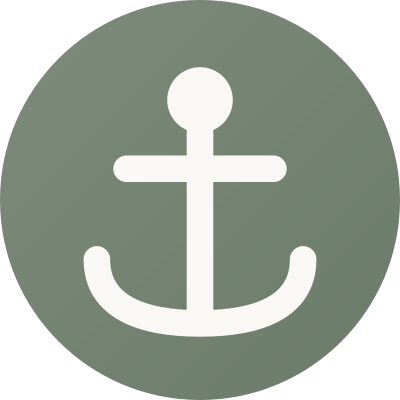
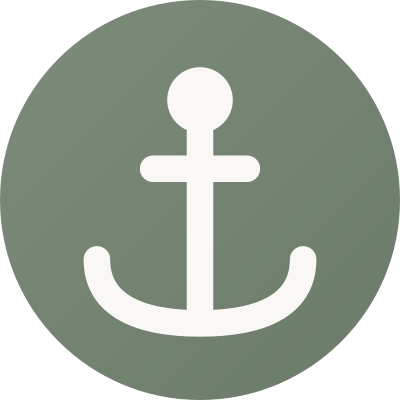
lock the anchor mark after testing the alternatives

Changed region(s): [[0.63, 0.39, 0.72, 0.48], [0.27, 0.39, 0.36, 0.48]]

diff --git a/brand/finalize.js b/brand/finalize.js
@@ -1,46 +1,38 @@
-const sharp = require('../node_modules/sharp'); const fs = require('fs');
-const CREAM='#FAF8F5', SAGE='#7D8B7A', MOSS='#6B7B6A';
-const P = '../public/';
+const sharp=require('../node_modules/sharp');const fs=require('fs');
+const CREAM='#FAF8F5',SAGE='#7D8B7A',MOSS='#6B7B6A',P='../public/';
 
-// the locked mark. solid head, wide crossbar, shallow cradle, no barbs.
-const mark = (sw=34) => `<g fill="none" stroke="${CREAM}" stroke-width="${sw}"
-    stroke-linecap="round" stroke-linejoin="round">
-    <path d="M256 168 L256 412"/><path d="M162 216 L350 216"/>
+// LOCKED MARK (round 5, x3): barbless anchor, solid head, SHORT crossbar, wide open cradle.
+const mark=(sw)=>`<g fill="none" stroke="${CREAM}" stroke-width="${sw}" stroke-linecap="round" stroke-linejoin="round">
+    <path d="M256 168 L256 412"/><path d="M196 216 L316 216"/>
     <path d="M124 332 C124 392 180 414 256 414 C332 414 388 392 388 332"/>
   </g><circle cx="256" cy="128" r="42" fill="${CREAM}"/>`;
-
-const tile = ({rx=0, sw=34}={}) => `<svg xmlns="http://www.w3.org/2000/svg" viewBox="0 0 512 512" width="512" height="512">
+const tile=({rx=0,sw=34}={})=>`<svg xmlns="http://www.w3.org/2000/svg" viewBox="0 0 512 512" width="512" height="512">
   <defs><linearGradient id="g" x1="0%" y1="0%" x2="100%" y2="100%">
-    <stop offset="0%" stop-color="${SAGE}"/><stop offset="100%" stop-color="${MOSS}"/></linearGradient></defs>
+   <stop offset="0%" stop-color="${SAGE}"/><stop offset="100%" stop-color="${MOSS}"/></linearGradient></defs>
   <rect width="512" height="512" rx="${rx}" fill="url(#g)"/>${mark(sw)}</svg>`;
 
-const square = tile(), rounded = tile({rx:96}), chunky = tile({rx:96, sw:44});
-
-(async () => {
-  // --- X profile picture, full bleed, X applies the circular crop itself
-  fs.writeFileSync('anchor-avatar.svg', square);
+const square=tile(), rounded=tile({rx:96}), chunky=tile({rx:96,sw:40});
+(async()=>{
+  fs.writeFileSync('anchor-avatar.svg',square);
   await sharp(Buffer.from(square)).resize(800,800).png().toFile('anchor-avatar-800.png');
   await sharp(Buffer.from(square)).resize(400,400).png().toFile('anchor-avatar-400.png');
-
-  // --- app icon set, replacing the ones that said SC
-  fs.writeFileSync(P+'icon.svg', rounded);
-  fs.writeFileSync(P+'apple-touch-icon.svg', rounded);
-  fs.writeFileSync(P+'favicon-32x32.svg', chunky);
-  fs.writeFileSync(P+'favicon-16x16.svg', chunky);
+  fs.writeFileSync(P+'icon.svg',rounded); fs.writeFileSync(P+'apple-touch-icon.svg',rounded);
+  fs.writeFileSync(P+'favicon-32x32.svg',chunky); fs.writeFileSync(P+'favicon-16x16.svg',chunky);
   await sharp(Buffer.from(rounded)).resize(192,192).png().toFile(P+'icon-192.png');
   await sharp(Buffer.from(rounded)).resize(512,512).png().toFile(P+'icon-512.png');
   await sharp(Buffer.from(rounded)).resize(180,180).png().toFile(P+'apple-touch-icon.png');
+  // 1024 native for any store use
+  await sharp(Buffer.from(rounded)).resize(1024,1024).png().toFile('anchor-icon-1024.png');
 
-  // --- proof: every target size, actual pixels, circular where X crops
-  const circ = s => Buffer.from(`<svg width="${s}" height="${s}"><circle cx="${s/2}" cy="${s/2}" r="${s/2}" fill="#fff"/></svg>`);
-  const shots = [];
-  for (const s of [400,128,48,32,16]) {
+  const circ=s=>Buffer.from(`<svg width="${s}" height="${s}"><circle cx="${s/2}" cy="${s/2}" r="${s/2}" fill="#fff"/></svg>`);
+  const comp=[];
+  for(const s of [400,128,48,32,16]){
     await sharp(Buffer.from(square)).resize(s,s).composite([{input:circ(s),blend:'dest-in'}]).png().toFile(`proof-${s}.png`);
-    if (s <= 48) await sharp(`proof-${s}.png`).resize(160,160,{kernel:'nearest'}).png().toFile(`proof-${s}-big.png`);
+    if(s<=48) await sharp(`proof-${s}.png`).resize(160,160,{kernel:'nearest'}).png().toFile(`proof-${s}-big.png`);
   }
-  const comp = [{input:'proof-400.png',left:20,top:20},{input:'proof-128.png',left:450,top:20}];
-  let x = 620; for (const s of [48,32,16]) { comp.push({input:`proof-${s}-big.png`,left:x,top:20}); x += 180; }
-  let x2 = 450; for (const s of [128,48,32,16]) { comp.push({input:`proof-${s}.png`,left:x2,top:250}); x2 += 90; }
+  comp.push({input:'proof-400.png',left:20,top:20},{input:'proof-128.png',left:450,top:20});
+  let x=620; for(const s of [48,32,16]){comp.push({input:`proof-${s}-big.png`,left:x,top:20});x+=180;}
+  let x2=450; for(const s of [128,48,32,16]){comp.push({input:`proof-${s}.png`,left:x2,top:250});x2+=90;}
   await sharp({create:{width:1160,height:440,channels:4,background:'#FAF8F5'}}).composite(comp).png().toFile('proof-sizes.png');
-  console.log('exported');
+  console.log('locked mark exported');
 })();

diff --git a/brand/forge4.js b/brand/forge4.js
@@ -1,0 +1,44 @@
+const sharp=require('../node_modules/sharp');const fs=require('fs');
+const CREAM='#FAF8F5';
+const field=`<defs><linearGradient id="g" x1="0%" y1="0%" x2="100%" y2="100%">
+ <stop offset="0%" stop-color="#7D8B7A"/><stop offset="100%" stop-color="#6B7B6A"/></linearGradient></defs>
+ <rect width="512" height="512" fill="url(#g)"/>`;
+
+// the anchor, as a knockout: drawn in black inside a mask so it cuts through the stone
+const cut = (sc, cy, sw) => `<g transform="translate(256,${cy}) scale(${sc}) translate(-256,-262)">
+   <g fill="none" stroke="#000" stroke-width="${sw}" stroke-linecap="round" stroke-linejoin="round">
+     <path d="M256 168 L256 412"/><path d="M162 216 L350 216"/>
+     <path d="M124 332 C124 392 180 414 256 414 C332 414 388 392 388 332"/>
+   </g><circle cx="256" cy="128" r="42" fill="#000"/></g>`;
+
+const PEBBLE = "M262 92 C352 88 424 150 420 244 C416 336 348 420 250 418 C158 416 92 344 94 246 C96 152 176 96 262 92 Z";
+
+const build = (shape, sc, cy, sw) => `<svg xmlns="http://www.w3.org/2000/svg" viewBox="0 0 512 512" width="512" height="512">
+ ${field}
+ <mask id="m"><rect width="512" height="512" fill="#000"/>
+   <path d="${shape}" fill="#fff"/>${cut(sc,cy,sw)}</mask>
+ <path d="${shape}" fill="${CREAM}" mask="url(#m)"/></svg>`;
+
+const V={};
+V.w1 = build("M256 76 A180 180 0 1 1 255.9 76 Z", 0.62, 262, 44);          // perfect circle
+V.w2 = build(PEBBLE, 0.62, 258, 44);                                        // irregular pebble
+V.w3 = build(PEBBLE, 0.72, 258, 52);                                        // bigger, heavier cut
+// control: the stroke anchor from round 3
+V.w4 = `<svg xmlns="http://www.w3.org/2000/svg" viewBox="0 0 512 512" width="512" height="512">${field}
+ <g fill="none" stroke="${CREAM}" stroke-width="34" stroke-linecap="round" stroke-linejoin="round">
+  <path d="M256 168 L256 412"/><path d="M162 216 L350 216"/>
+  <path d="M124 332 C124 392 180 414 256 414 C332 414 388 392 388 332"/></g>
+ <circle cx="256" cy="128" r="42" fill="${CREAM}"/></svg>`;
+
+const circ=s=>Buffer.from(`<svg width="${s}" height="${s}"><circle cx="${s/2}" cy="${s/2}" r="${s/2}" fill="#fff"/></svg>`);
+(async()=>{const ids=Object.keys(V);
+for(const id of ids){fs.writeFileSync(`round4/${id}.svg`,V[id]);
+ for(const s of [512,48,16]) await sharp(Buffer.from(V[id])).resize(s,s).composite([{input:circ(s),blend:'dest-in'}]).png().toFile(`round4/${id}-${s}.png`);
+ await sharp(`round4/${id}-16.png`).resize(128,128,{kernel:'nearest'}).png().toFile(`round4/${id}-16x.png`);
+ await sharp(`round4/${id}-512.png`).resize(250,250).png().toFile(`round4/${id}-250.png`);}
+const W=300,comp=[];
+ids.forEach((id,i)=>{comp.push({input:`round4/${id}-250.png`,left:i*W+25,top:14});
+ comp.push({input:`round4/${id}-48.png`,left:i*W+45,top:290});
+ comp.push({input:`round4/${id}-16x.png`,left:i*W+120,top:275});});
+await sharp({create:{width:W*ids.length,height:420,channels:4,background:'#FAF8F5'}}).composite(comp).png().toFile('round4/sheet.png');
+console.log('round 4:',ids.join(' '));})();

diff --git a/brand/forge5.js b/brand/forge5.js
@@ -1,0 +1,26 @@
+const sharp=require('../node_modules/sharp');const fs=require('fs');
+const CREAM='#FAF8F5';
+const f=`<defs><linearGradient id="g" x1="0%" y1="0%" x2="100%" y2="100%">
+ <stop offset="0%" stop-color="#7D8B7A"/><stop offset="100%" stop-color="#6B7B6A"/></linearGradient></defs>
+ <rect width="512" height="512" fill="url(#g)"/>`;
+const w=(inner,head=true,cy=128,r=42)=>`<svg xmlns="http://www.w3.org/2000/svg" viewBox="0 0 512 512" width="512" height="512">${f}
+ <g fill="none" stroke="${CREAM}" stroke-width="34" stroke-linecap="round" stroke-linejoin="round">${inner}</g>
+ ${head?`<circle cx="256" cy="${cy}" r="${r}" fill="${CREAM}"/>`:''}</svg>`;
+const CRADLE=`<path d="M124 332 C124 392 180 414 256 414 C332 414 388 392 388 332"/>`;
+const V={};
+V.x1=w(`<path d="M256 168 L256 412"/><path d="M162 216 L350 216"/>${CRADLE}`);           // control
+V.x2=w(`<path d="M256 168 L256 412"/>${CRADLE}`);                                        // no crossbar
+V.x3=w(`<path d="M256 168 L256 412"/><path d="M196 216 L316 216"/>${CRADLE}`);           // short crossbar
+V.x4=w(`<path d="M256 176 L256 412"/><path d="M162 216 L350 216"/>${CRADLE}`,true,120,54);// heavier head
+const circ=s=>Buffer.from(`<svg width="${s}" height="${s}"><circle cx="${s/2}" cy="${s/2}" r="${s/2}" fill="#fff"/></svg>`);
+(async()=>{const ids=Object.keys(V);
+for(const id of ids){fs.writeFileSync(`round5/${id}.svg`,V[id]);
+ for(const s of [512,48,16]) await sharp(Buffer.from(V[id])).resize(s,s).composite([{input:circ(s),blend:'dest-in'}]).png().toFile(`round5/${id}-${s}.png`);
+ await sharp(`round5/${id}-16.png`).resize(128,128,{kernel:'nearest'}).png().toFile(`round5/${id}-16x.png`);
+ await sharp(`round5/${id}-512.png`).resize(250,250).png().toFile(`round5/${id}-250.png`);}
+const W=300,comp=[];
+ids.forEach((id,i)=>{comp.push({input:`round5/${id}-250.png`,left:i*W+25,top:14});
+ comp.push({input:`round5/${id}-48.png`,left:i*W+45,top:290});
+ comp.push({input:`round5/${id}-16x.png`,left:i*W+120,top:275});});
+await sharp({create:{width:W*ids.length,height:420,channels:4,background:'#FAF8F5'}}).composite(comp).png().toFile('round5/sheet.png');
+console.log('round 5:',ids.join(' '));})();

diff --git a/brand/README.md b/brand/README.md
@@ -1,56 +1,69 @@
 # ANCHOR brand mark
 
-Made with the Logo Forge Kit pipeline (Understand → Concept → Route → Generate in rounds →
-Critique → Finalize). `BRAND-TRUTH.md` and `ART-DIRECTION.md` are the stage 0 and 1 artifacts.
-`round1/`, `round2/` and `round3/` are the paper trail, kept so the reasoning is checkable.
+Produced by running the `logo-forge` skill end to end. `BRAND-TRUTH.md` and `ART-DIRECTION.md`
+are the Stage 0 and 1 artifacts. `round1/` … `round5/` and `raster-r1/`, `raster-r2/` are the
+paper trail: 24 candidates, kept so the reasoning stays checkable.
 
 ## The mark
 
-A barbless anchor. Solid head, wide crossbar, shallow open cradle, round caps throughout.
+A barbless anchor. Solid head, short crossbar, wide shallow open cradle, round caps.
+Cream `#FAF8F5` on a sage `#7D8B7A` to moss `#6B7B6A` field. One accent, nothing else.
 
-The kit says to name and forbid the lazy idea, and for a product called ANCHOR that is the
-nautical anchor. So it was forbidden, and two full rounds went to abstract alternatives:
-a damped wave settling onto a point, a plumb, a weighted ring, a waterline, a cradle. Every
-one of them collided with a glyph that already means something else. The wave read as an EKG
-trace, and its flattened tail read as flatlining, which is an awful thing to put on a mental
-health product. The plumb was literally a letter T. The stack read as water, or as a hamburger
-menu at small size. The dot on a bar was the default empty-avatar glyph. The cradle was a
-smiley face. The waterline was a sunrise, which the art direction bans as a wellness cliché.
+Two things make it the brand's rather than a stock glyph: **no barbs and no shackle ring**, and
+**inverted proportions** — narrow at the shoulders, wide and open at the base. A stock anchor
+has a crossbar about as wide as its flukes and spiked flukes that grip. This one holds.
 
-The literal mark won on evidence. The kit's anti-literal rule is aimed at category clichés,
-a magnifying glass for a search app, and this is a name-mark for a brand actually named
-Anchor with a ticker to match. Recognition beats abstraction at this size.
+## What was tested and rejected
 
-What keeps it from being stock: **no barbs and no ring.** A stock anchor has spiked flukes
-and an open shackle. This one has a shallow open cradle and a solid head. It holds, it does
-not grip. That matches a product whose whole argument is that the smallest thing is enough.
+The skill requires naming and forbidding the lazy idea, so the nautical anchor was forbidden
+first and genuinely fought for. It won on evidence, after everything else failed:
 
-## Palette
+**Vector abstractions (rounds 1–2, 10 candidates).** A damped wave settling onto a point read as
+an **EKG trace**, and its flattened tail read as **flatlining** — unacceptable on a mental-health
+product. Vertical wave: a **question mark**. Plumb: literally a **letter T**, which the skill's
+own no-letters rule auto-rejects. Settling stack: **water**, or a **hamburger menu** small. Dot
+on a bar: the **default empty-avatar glyph**. Cradle: a **smiley face**. Waterline: a **sunrise**,
+banned here as a wellness cliché.
 
-Field sage `#7D8B7A` into moss `#6B7B6A`. Mark cream `#FAF8F5`. One accent, nothing else.
+**Raster route (2 rounds, 10 renders, Pollinations/Flux).** Tested properly rather than assumed.
+The concept was one stone come to rest, taken from this design system's own material words
+(stone, sand, sage, clay, bark). The model read it as a literal photograph of a rock on grass:
+a **manhole cover**, a **birdbath**, pebbles on a lawn, and one **cairn** which violated the
+explicit no-stacked-stones negative. Steering hard to "flat vector, no shadow, no 3D" was ignored
+entirely and produced two **bars of soap** and a **bottle of lotion**. Nothing survived 48px.
+**Route closed on evidence.**
+
+**Anchor knocked out of a stone (round 4).** The idea was to fuse ownability with recognition.
+It failed at the size floor: a negative shape has to resolve before it can be read, so the
+knockout was *less* legible at 16px than a positive mark, and it read as a **badge**. The pebble's
+irregularity was invisible at every size, so it did not earn its complexity.
+
+**Crossbar refinements (round 5).** No crossbar became an **umbrella**. A heavier head became a
+**map pin**. The short crossbar kept the read and gained the distinctive proportion. Locked.
 
 ## Files
 
 | File | Use |
 |---|---|
-| `anchor-avatar-800.png` | X profile picture. Upload this one. X crops it to a circle itself. |
+| `anchor-avatar-800.png` | X profile picture. Upload this. X applies the circular crop. |
 | `anchor-avatar-400.png` | Same, smaller, if 800 is rejected. |
-| `x-header-1500x500.png` | X header. Text sits above centre so the avatar does not cover it. |
-| `anchor-avatar.svg` | The source, full bleed, no rounding. |
-| `../public/icon.svg` + `icon-192/512.png` + `apple-touch-icon.*` + `favicon-*.svg` | The site icon set. |
-| `../public/og-image.svg` / `.png` | Link preview card, now carrying the mark. |
+| `x-header-1500x500.png` | X header. Type sits above centre so the avatar cannot cover it. |
+| `anchor-icon-1024.png` | 1024 native, for any store listing. |
+| `anchor-avatar.svg` | Source, full bleed. |
+| `../public/icon.svg`, `icon-192/512.png`, `apple-touch-icon.*`, `favicon-*.svg` | Site icon set. |
+| `../public/og-image.svg` / `.png` | Link preview card. |
 
-Every icon in `public/` said **SC** before this, left over from an earlier name, and the link
-preview card used a letter **A**. Three different identities. They now all use one mark.
+Before this, every icon in `public/` said **SC**, leftover initials from an earlier name, and the
+preview card used a letter **A**. Three identities. They are now one.
 
 ## Legibility, tested not assumed
 
-Rendered and inspected at 400, 128, 48, 32 and 16px with a circular crop, the sizes X and
-browser tabs actually use. It holds at 16px; the head stays a distinct dot and the cradle
-stays open. Proof sheet: `proof-sizes.png`.
+Rendered and inspected at 400, 128, 48, 32 and 16px, circle-cropped, the sizes X and browser tabs
+actually use. It holds at 16px: the head stays a distinct dot and the cradle stays open.
+Proof: `proof-sizes.png`.
 
 ## Caveats
 
-Authored as vector and rendered natively at every size. Nothing here was upscaled and no
-image model was used, so there are no generation artifacts. The header is the one piece
-with type in it; it uses Georgia, which matches the site's serif stack.
+Authored as vector, rendered natively at every size. Nothing was upscaled. No image-model output
+is in the final set; the raster renders are kept only as the record of a closed route. The header
+is the one piece containing type, set in Georgia to match the site's serif stack.

diff --git a/brand/ART-DIRECTION.md b/brand/ART-DIRECTION.md
@@ -7,14 +7,17 @@ anyone draws, and it imports sailing, boats and navy baggage into a product abou
 tired to shower. It also collides with every "anchor" brand already on the internet: zero
 ownability. Forbidden.
 
-## Signature element
+## Signature element (revised after five rounds — see README for what was tested)
 
-**Drift coming to rest.** One continuous stroke that begins as a wavering line and resolves
-into stillness at a single solid point. Input (drift) → process (the settling curve) →
-resolved output (rest), as one object, not three icons in a tray.
+**A barbless anchor with inverted proportions.** Solid head, a *short* crossbar, and a wide,
+shallow, open cradle. Round caps throughout, no spiked flukes, no shackle ring.
 
-This encodes the core verb literally: the mark *is* the act of steadying. It also encodes
-sufficiency, because what stops the drift is one small point, not a large apparatus.
+The original spec here called for "drift coming to rest" as an abstract transformation. Two
+rounds of vector abstractions and two rounds on the image model killed that idea on evidence,
+not taste: every abstract form collided with a glyph that already means something else. The
+concept survives in the *proportions* instead. A stock anchor has a crossbar roughly as wide as
+its flukes. This one is narrow at the shoulders and wide at the base: small at the top, holding
+at the bottom, which is the product's argument in one shape.
 
 ## Material language
 
